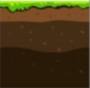
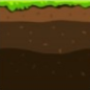
game

Changed region(s): [[0.0, 0.0, 1.0, 1.0], [0.0, 0.9773, 0.0222, 1.0]]

diff --git a/main.js b/main.js
@@ -37,7 +37,7 @@ canvas.width = 2000;
 canvas.height = 600;
 
 //중력설정
-const gravity = 0.009;
+const gravity = 0.01;
 
 //플레이어 이미지 프레임변경
 //달리기 이미지
@@ -76,14 +76,27 @@ for (let i = 0; i < 4; i++) {
   jumpPlayer.push(new Image());
   jumpPlayer[i].src = imglinkJump[i];
 }
+//더블점프 이미지
+let dbjumpPlayer = new Array();
+let imglinkDbjump = [
+  "images/Character/Taehoon/Jump/Jump1.png",
+  "images/Character/Taehoon/Jump/Jump2.png",
+  "images/Character/Taehoon/Jump/Jump1.png",
+  "images/Character/Taehoon/Jump/Jump2.png",
+];
+for (let i = 0; i < 4; i++) {
+  dbjumpPlayer.push(new Image());
+  dbjumpPlayer[i].src = imglinkDbjump[i];
+}
+//피격시 이미지
 
 //플레이어 설정
 let player = {
   x: 120,
-  y: 423,
+  y: 350,
   width: 80,
   height: 90,
-  yspeed: 0.1,
+  yspeed: 1,
   index: 0,
   speed: 15,
   time: 0,
@@ -124,11 +137,36 @@ let player = {
     this.yspeed += gravity;
 
     //바닥에 캐릭터 닿으면 멈추기
-    if (this.y + this.height + this.yspeed <= canvas.height - 87) {
+    if (this.y + this.height <= canvas.height) {
       this.yspeed += gravity;
     } else this.yspeed = 0;
   },
 };
+
+let floorImg = new Image();
+floorImg.src = "images/Hurdle/floor.png";
+
+//땅 설정
+class Floor {
+  constructor({ x, y, width, height }) {
+    this.x = x;
+    this.y = y;
+    this.width = width;
+    this.height = height;
+  }
+  draw() {
+    // ctx.fillStyle = "black";
+    // ctx.fillRect(this.x, this.y, this.width, this.height);
+    ctx.drawImage(floorImg, this.x, this.y, this.width, this.height);
+  }
+}
+
+let floor = [
+  new Floor({ x: 0, y: 510, width: 80, height: 90 }),
+  new Floor({ x: 80, y: 510, width: 80, height: 90 }),
+  new Floor({ x: 160, y: 510, width: 80, height: 90 }),
+  new Floor({ x: 240, y: 510, width: 80, height: 90 }),
+];
 
 //젤리 기본 이미지
 let imgJelly = new Image();
@@ -142,7 +180,7 @@ class Jelly {
     this.width = width;
     this.height = height;
     this.eat = false;
-    this.speed = 3;
+    this.speed = 2;
     this.time = 0;
   }
   setEater() {
@@ -153,7 +191,7 @@ class Jelly {
   }
   draw() {
     this.time++;
-    if (this.time % this.speed === 0) {
+    if (this.time % this.speed === 1) {
       this.x--;
     }
     ctx.fillStyle = "yellow";
@@ -163,17 +201,8 @@ class Jelly {
   }
 }
 
-let testJelly1 = new Jelly({ x: 750, y: 250, width: 100, height: 100 });
+let testJelly1 = new Jelly({ x: 750, y: 300, width: 100, height: 100 });
 let testJelly2 = new Jelly({ x: 1050, y: 350, width: 100, height: 100 });
-
-class Floor {
-  constructor({ x, y, width, height }) {
-    this.x = x;
-    this.y = y;
-    this.width = width;
-    this.height = height;
-  }
-}
 
 //점수선언
 let point = 0;
@@ -186,7 +215,7 @@ let drawScore = {
   height: 50,
   draw() {
     ctx.font = "20px Arial";
-    ctx.fillStyle = "#0095DD";
+    ctx.fillStyle = "Black";
     ctx.fillText("점수: " + point, 30, 30);
   },
 };
@@ -206,51 +235,52 @@ function game() {
   ctx.clearRect(0, 0, canvas.width, canvas.height);
   ctxMap.clearRect(0, 0, canvasMap.width, canvasMap.width);
 
-  //장애물 올라타기
-  // hurdle.forEach((Hurdle) => {
-  //   if (
-  //     player.y + player.height <= Hurdle.y &&
-  //     player.y + player.height + player.yspeed >= Hurdle.y &&
-  //     player.x + player.width >= Hurdle.x &&
-  //     player.x <= Hurdle.x + Hurdle.width
-  //   ) {
-  //     player.yspeed = 0;
-  //   }
-  // });
+  //땅, 장애물 올라타기
+
+  for (let i = 0; i < floor.length; i++) {
+    if (
+      player.y + player.height <= floor[i].y &&
+      player.y + player.height + player.yspeed >= floor[i].y &&
+      player.x + player.width >= floor[i].x &&
+      player.x <= floor[i].x + floor[i].width
+    ) {
+      player.yspeed = 0;
+    }
+  }
 
   //점프기능
   //점프시 점프값 증가 & 이미지 변경
   if (jump == true) {
-    player.y -= 3.5;
+    player.y -= 2;
     jumpTimer++;
   }
 
-  //점프시간이 50 넘어가면 점프 끝
-  if (jumpTimer > 35) {
+  //점프시간이 100 넘어가면 점프 끝
+  if (jumpTimer > 100) {
+    player.y -= 0;
+  }
+
+  if (jumpTimer > 198) {
     jump = false;
     jumpTimer = 0;
   }
+
   //점프 끝난 후 다시 원래 이미지로
-  if (
-    player.y + player.height + player.yspeed + 0.01 >= canvas.height - 87 &&
-    player.state == "jump"
-  ) {
+  if (player.y + player.height >= floor[2].y - 1 && player.state == "jump") {
     player.state = "run";
+    console.log("실행");
   }
+  console.log(player.y);
 
   //맵그리기, 캐릭터 그리기, 점수 그리기, 젤리 그리기
   background.draw();
-  // testJelly1.draw();
-  // testJelly2.draw();
+
   if (testJelly1.getEater() == false) {
     jellyEat(player, testJelly1);
   }
   if (testJelly2.getEater() == false) {
     jellyEat(player, testJelly2);
   }
-  // jellyEat(player, testJelly1);
-  // jellyEat(player, testJelly2);
-  player.update();
 
   // jelly.forEach((Jelly, i, jellyArray) => {
   //   if (Jelly.x < 0) {
@@ -259,7 +289,11 @@ function game() {
   //   Jelly.x -= 0.3;
   //   Jelly.draw();
   // });
+  floor.forEach((floor) => {
+    floor.draw();
+  });
   drawScore.draw();
+  player.update();
 }
 
 //실행
@@ -269,7 +303,7 @@ game();
 function jellyEat(player, _jelly) {
   let eatJellyX = _jelly.x - player.x;
   let eatJellyY = _jelly.y - player.y;
-  if (eatJellyX < 70 && eatJellyX > -70 && eatJellyY < 80 && eatJellyY > -80) {
+  if (eatJellyX < 60 && eatJellyX > -60 && eatJellyY < 60 && eatJellyY > -60) {
     _jelly.setEater();
     ctx.clearRect(_jelly.x, _jelly.y, _jelly.width, _jelly.height);
     // firstMap.draw();
@@ -295,7 +329,9 @@ document.addEventListener("keydown", function (key) {
         isSliding = false;
         player.state = "jump";
         player.height = 90;
+        player.width = 80;
       }
+      console.log(player.state);
       break;
 
     case "KeyA":
@@ -307,33 +343,44 @@ document.addEventListener("keydown", function (key) {
       break;
 
     case "ArrowDown":
-      player.state = "slide";
-      player.height = 55;
+      if (player.state == "jump" || jump == "true") {
+        return;
+      } else {
+        player.state = "slide";
+        player.height = 55;
+        player.width = 95;
+        console.log(player.state);
 
-      if (!isSliding) {
-        player.y = player.y + 45;
-        isSliding = true;
+        if (!isSliding) {
+          player.y = player.y + 35;
+          isSliding = true;
+        }
+        break;
       }
-      break;
   }
 });
 
 document.addEventListener("keyup", function (key) {
   switch (key.code) {
     case "ArrowDown":
-      player.state = "run";
-      if (isSliding && jump == true) {
-        isSliding = false;
-        player.height = 90;
-      } else if (isSliding && player.state == "run") {
-        player.y = player.y - 45;
-        isSliding = false;
-        player.height = 90;
-      } else if (!isSliding && player.state == "run") {
-        isSliding = false;
-        player.height = 90;
-      }
+      if (player.state == "slide") {
+        player.state = "run";
+        if (isSliding && jump == true) {
+          isSliding = false;
+          player.height = 90;
+          player.width = 80;
+        } else if (isSliding && player.state == "run") {
+          player.y = player.y - 35;
+          isSliding = false;
+          player.height = 90;
+          player.width = 80;
+        } else if (!isSliding && player.state == "run") {
+          isSliding = false;
+          player.height = 90;
+          player.width = 80;
+        }
 
-      break;
+        break;
+      }
   }
 });
